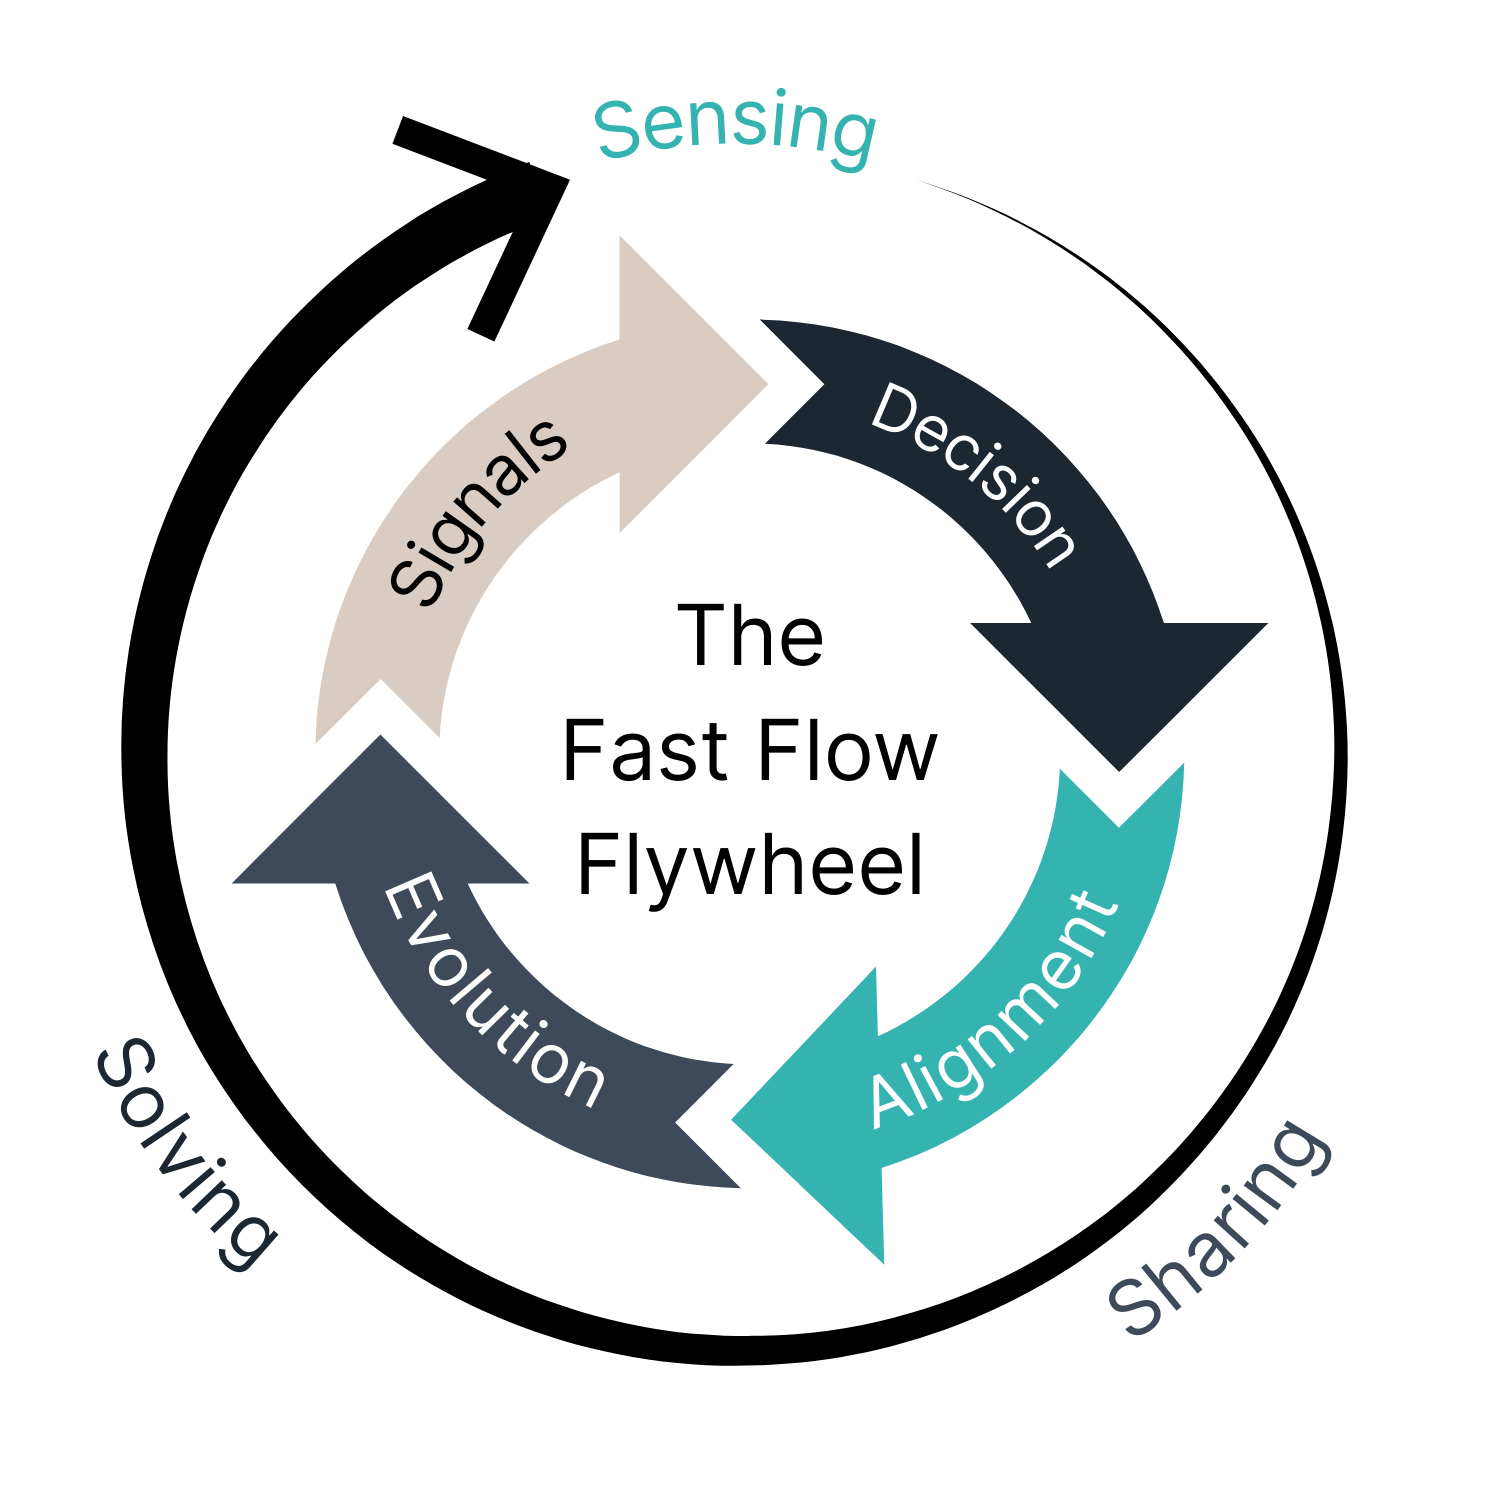
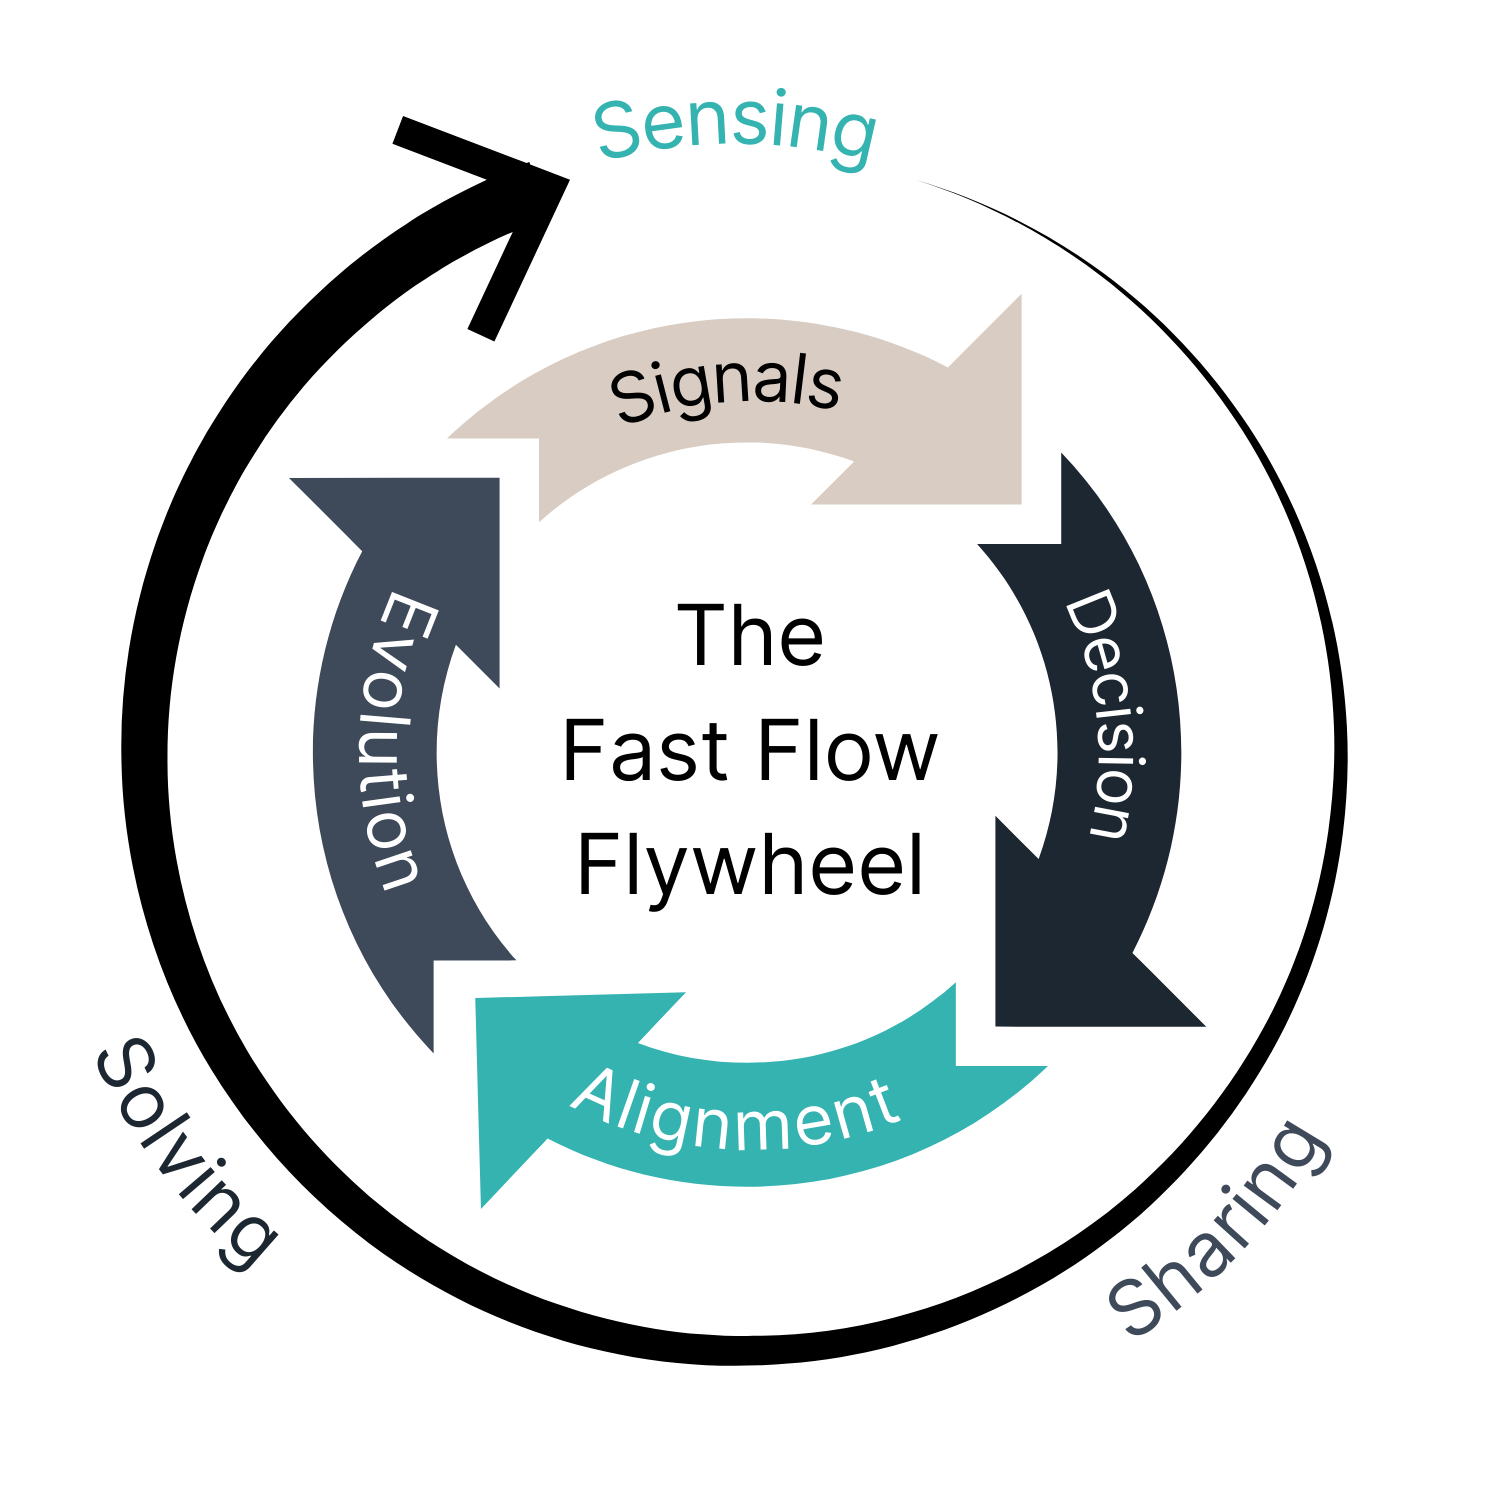
Tweak images and intro text

Changed region(s): [[0.1533, 0.276, 0.8587, 0.828], [0.3987, 0.1533, 0.736, 0.368]]

diff --git a/pages/index.md b/pages/index.md
@@ -15,10 +15,11 @@ header:
 
 ![Fast Flow Flywheel](/assets/images/fast-flow-flywheel-white-bg.png){: .align-right width="50%" }
 
+Truly adaptive organizations succeed in a rapidly changing world because they are able to quickly sense, share and solve any problems that arise when their environment changes.
+
 Meet the Fast Flow Flywheel
 
 > A simple, powerful cycle to help you diagnose, decide, and evolve.
-
 
 ## Why the Flywheel?
 
